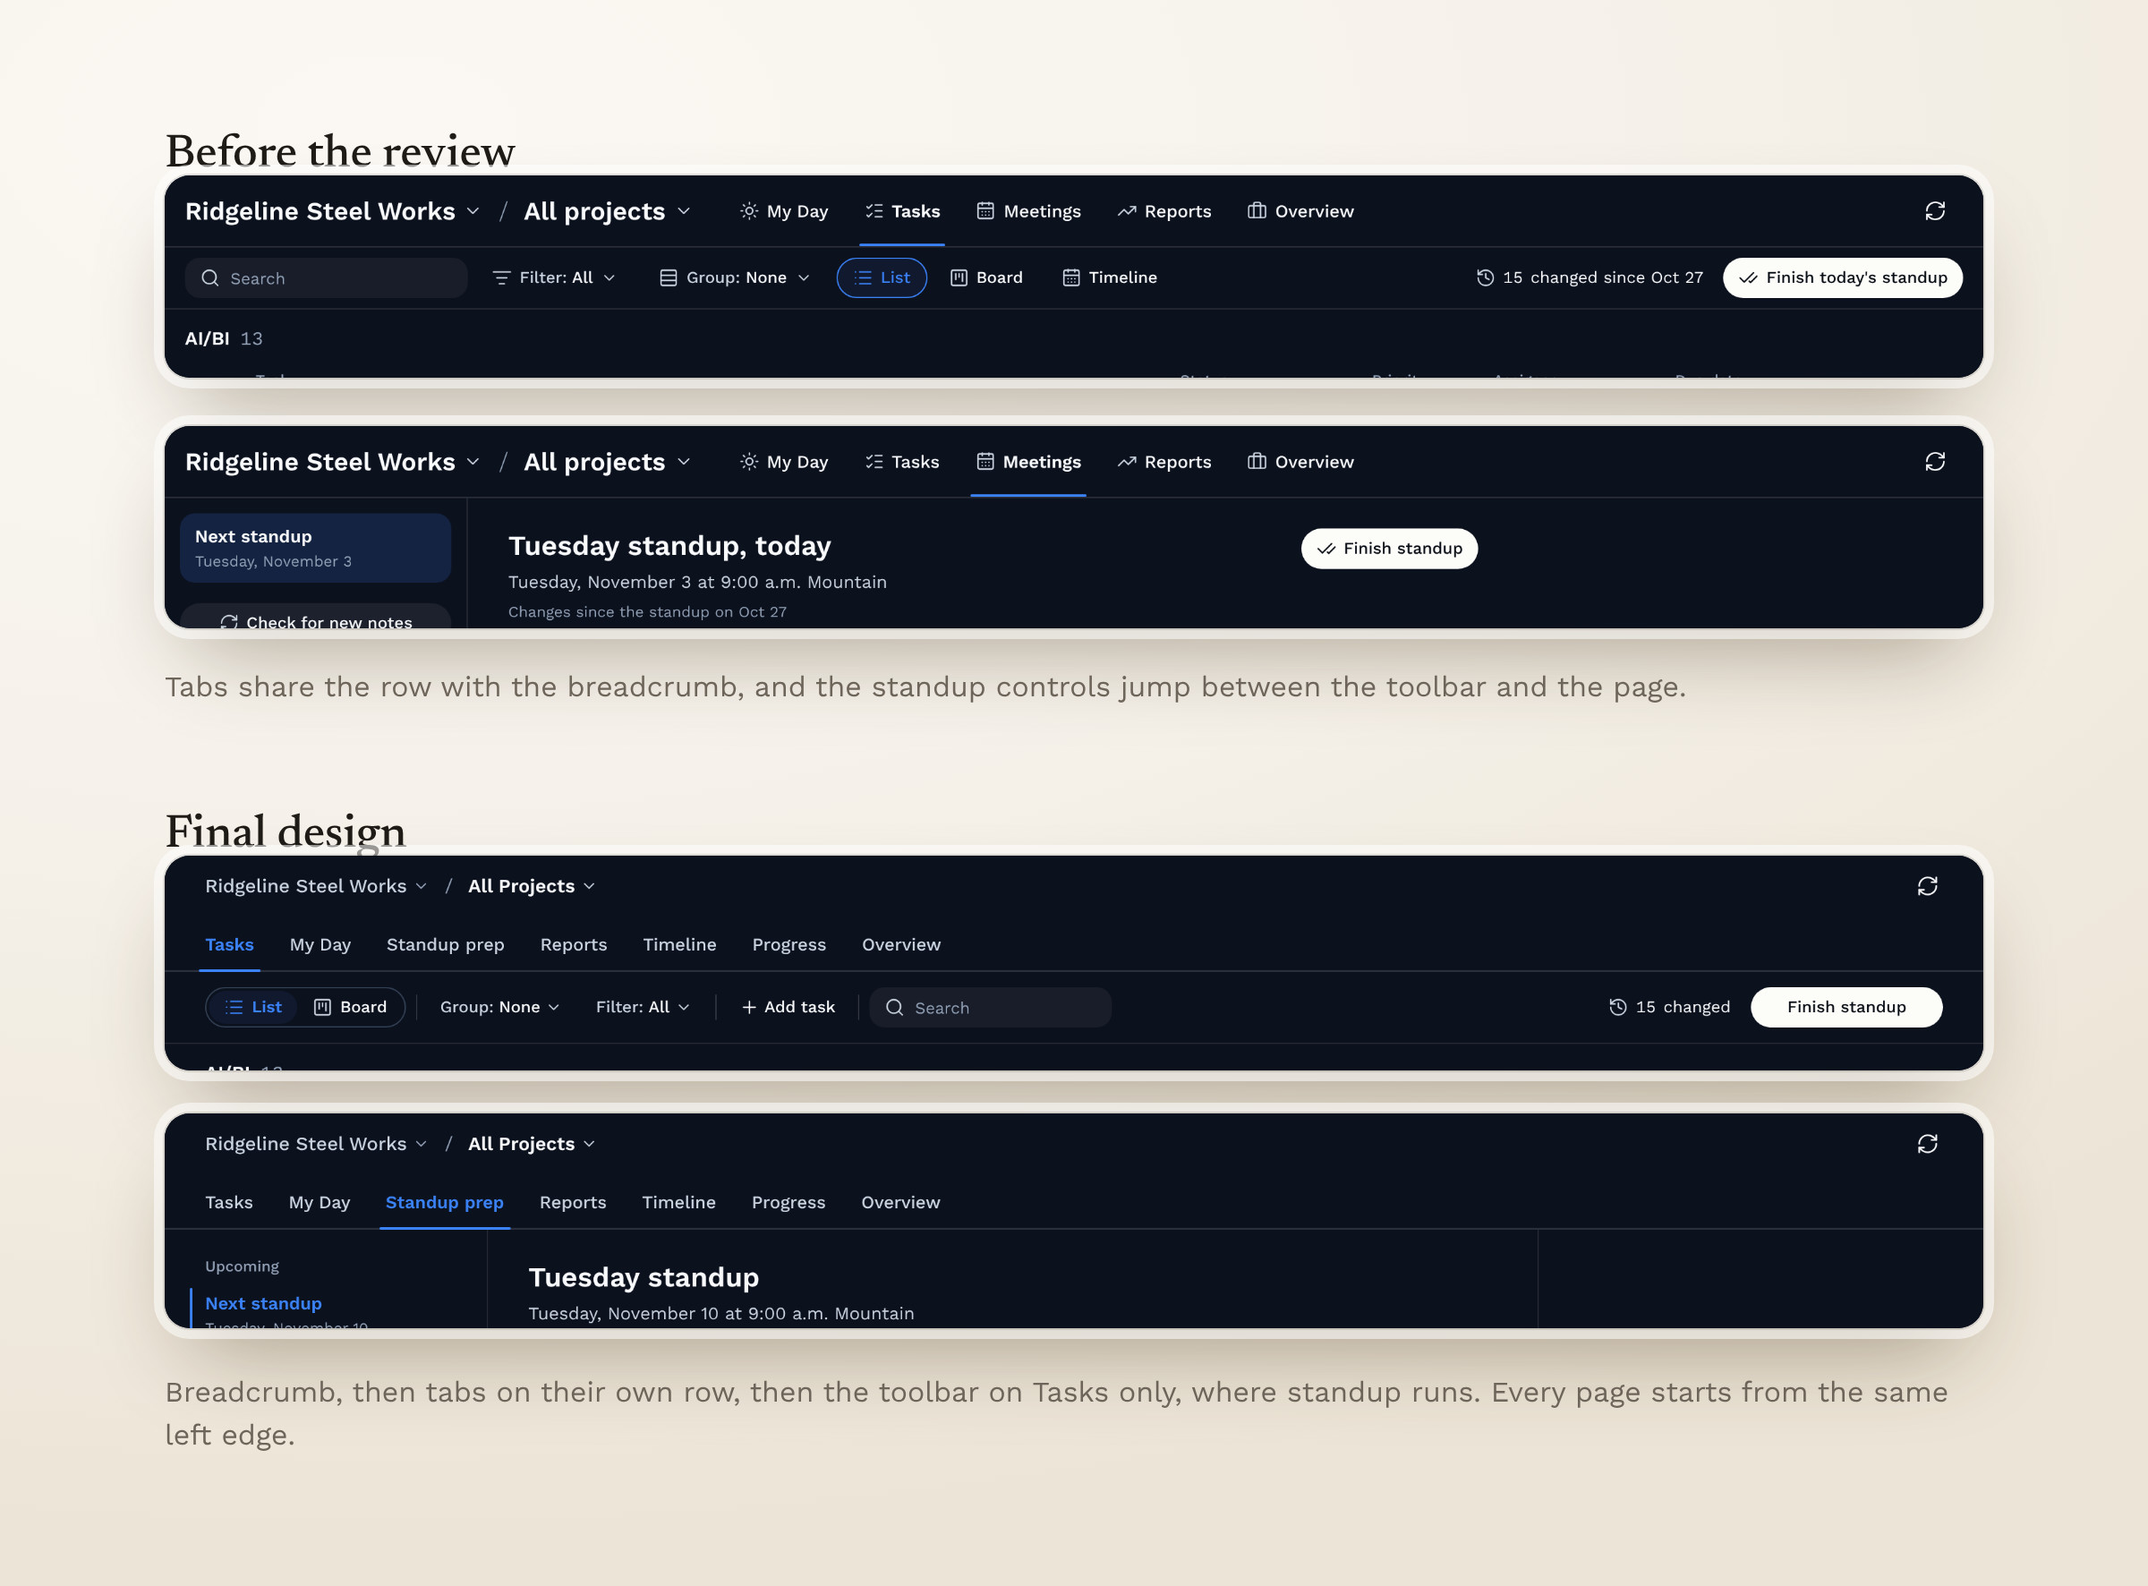
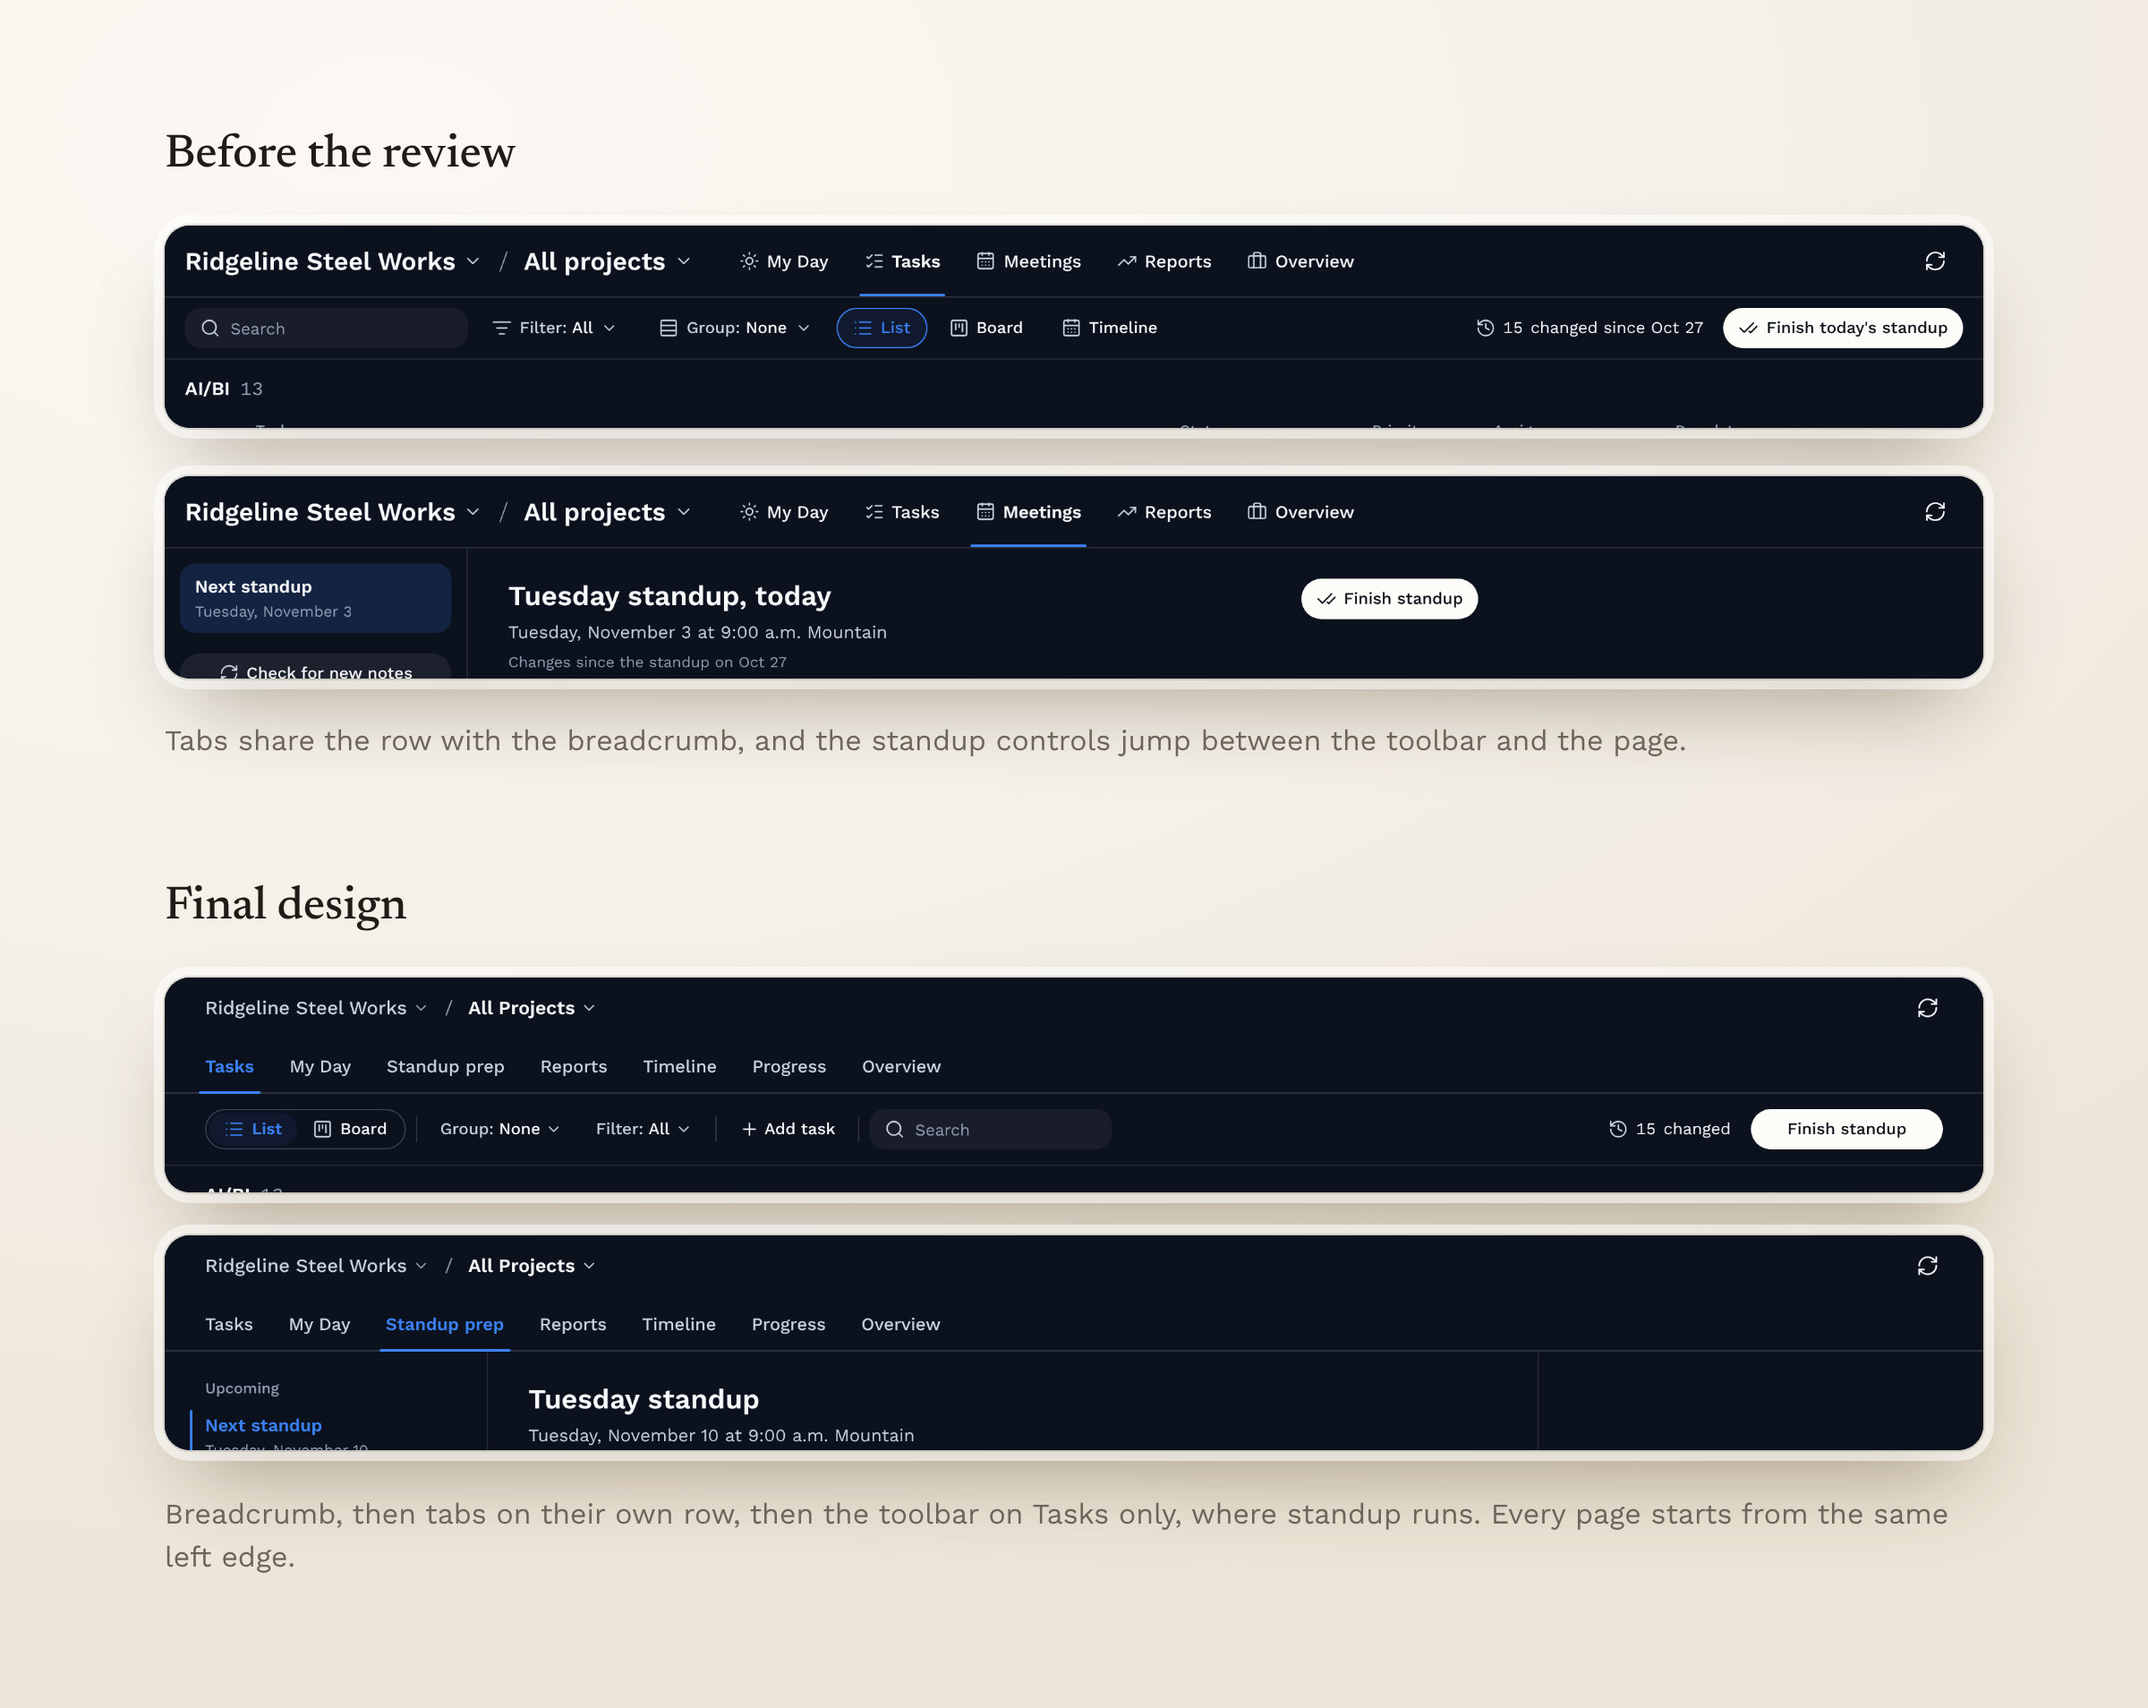
Fix prototype embed shadow and update case study images

Changed region(s): [[0.0625, 0.4966, 0.9375, 0.9312], [0.0625, 0.0621, 0.9375, 0.4035], [0.2188, 0.3414, 0.4062, 0.4035]]

diff --git a/case-studies/client-dashboard.html b/case-studies/client-dashboard.html
@@ -106,8 +106,10 @@
   @media (max-width:640px){.csd-pop{position:static;width:auto}.csd-dot{width:22px;height:22px;margin:-11px 0 0 -11px;line-height:22px;font-size:11px}}
 
   /* Prototype embed */
-  .csd-proto-wrap{--csd-gold:#A36A00;display:flex;flex-direction:column;gap:12px;margin:0}
-  .csd-proto{border-radius:14px;overflow:hidden;background:#0c111e;box-shadow:0 0 0 1px rgba(30,20,5,.12),0 30px 60px -28px rgba(40,25,5,.55)}
+  .csd-proto-wrap{--csd-gold:#A36A00;display:flex;flex-direction:column;gap:32px;margin:0}
+  /* The prototype's shadow needs room: its container must not clip it, and the caption sits clear below it. */
+  .img-full:has(.csd-proto-wrap){overflow:visible;padding-bottom:8px}
+  .csd-proto{border-radius:14px;overflow:hidden;background:#0c111e;box-shadow:0 0 0 1px rgba(30,20,5,.12),0 18px 36px -20px rgba(40,25,5,.45)}
   .csd-bar{height:34px;display:flex;align-items:center;gap:7px;padding:0 14px;background:#141a28;position:relative}
   .csd-bar i{width:10px;height:10px;border-radius:50%;background:#2b3243}
   .csd-bar span{position:absolute;left:50%;transform:translateX(-50%);font-size:12px;font-weight:500;color:#8a93a5;background:#0d1220;padding:6px 14px;border-radius:7px;white-space:nowrap}
